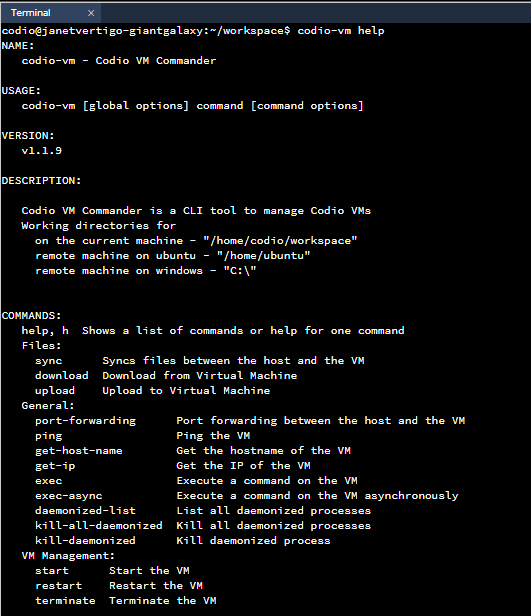
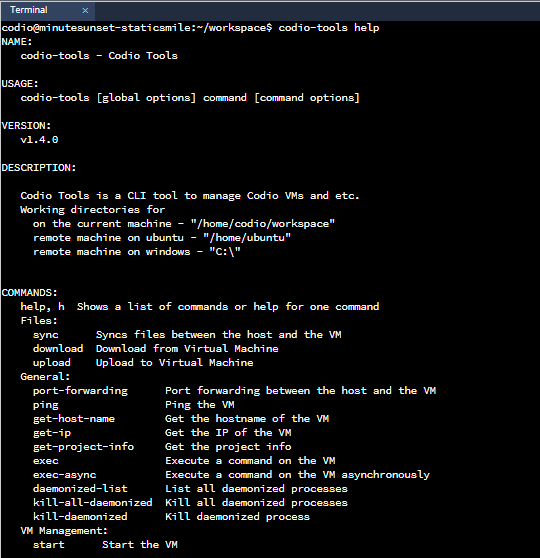
Codio tools vm (#319)

diff --git a/source/instructors/setupcourses/virtualmachine.rst b/source/instructors/setupcourses/virtualmachine.rst
@@ -107,7 +107,7 @@ or from a :ref:`Custom Guide Button<custom-buttons>`
 
 .. code:: ini
 
-   {Try it | terminal}(codio-vm help)
+   {Try it | terminal}(codio-tools help)
 
 
 The working directories for:
@@ -116,17 +116,19 @@ The working directories for:
 - Windows Virtual Machine - "C:\\"
 - Ubuntu Virtual Machine - "/home/ubuntu"
 
+.. Note::  Instead of **codio-tools** you can also use **codio-vm**, both will work the same.
+
 Following are some example of commands that can be used to interact with Virtual Machine:
 
-- **codio-vm help** - This command gives you a brief introduction about many commands that can be used to interact with Virtual Machine.
+- **codio-tools help** - This command gives you a brief introduction about many commands that can be used to interact with Virtual Machine.
 
-- **codio-vm upload** - This command is used to upload a file from Codio filetree to Virtual Machine.
+- **codio-tools upload** - This command is used to upload a file from Codio filetree to Virtual Machine.
 
    Windows example:
 
    .. code:: ini
 
-      codio-vm upload "/home/codio/workspace/local_file.sh" "C:\remote_file.sh"
+      codio-tools upload "/home/codio/workspace/local_file.sh" "C:\remote_file.sh"
 
    Running above command will upload ‘local_file.sh’ file present in your Codio filetree into the Virtual Machine as ‘remote_file.sh’.
 
@@ -134,7 +136,7 @@ Following are some example of commands that can be used to interact with Virtual
 
    .. code:: ini
 
-      codio-vm upload "/home/codio/workspace/local_file.sh" "/home/ubuntu/remote_file.sh"
+      codio-tools upload "/home/codio/workspace/local_file.sh" "/home/ubuntu/remote_file.sh"
 
 
    Similar to file, you can also upload the Folder
@@ -143,23 +145,23 @@ Following are some example of commands that can be used to interact with Virtual
 
    .. code:: ini
 
-      codio-vm upload "/home/codio/workspace/local_folder" "C:\remote_folder"
+      codio-tools upload "/home/codio/workspace/local_folder" "C:\remote_folder"
 
 
    In Ubuntu:
 
    .. code:: ini
 
-      codio-vm upload "/home/codio/workspace/local_folder" "/home/ubuntu/remote_folder"
+      codio-tools upload "/home/codio/workspace/local_folder" "/home/ubuntu/remote_folder"
 
 
-- **codio-vm download** - This command is used to download a file from Virtual Machine into your Codio filetree.
+- **codio-tools download** - This command is used to download a file from Virtual Machine into your Codio filetree.
 
    Windows example:
 
    .. code:: ini
 
-      codio-vm download "C:\remote_file.sh" "/home/codio/workspace/local_file.sh"
+      codio-tools download "C:\remote_file.sh" "/home/codio/workspace/local_file.sh"
 
 
    Running above command will download ‘remote_file.sh’ file from your Virtual Machine into your Codio filetree and saves it as ‘local_file.sh’.
@@ -168,7 +170,7 @@ Following are some example of commands that can be used to interact with Virtual
 
    .. code:: ini
 
-      codio-vm download "/home/ubuntu/remote_file.sh" "/home/codio/workspace/local_file.sh"
+      codio-tools download "/home/ubuntu/remote_file.sh" "/home/codio/workspace/local_file.sh"
 
 
    Similar to file, you can also download the Folder from your Virtual Machine
@@ -177,34 +179,34 @@ Following are some example of commands that can be used to interact with Virtual
 
    .. code:: ini
 
-      codio-vm download "C:\remote_folder" /home/codio/workspace/local_folder"
+      codio-tools download "C:\remote_folder" /home/codio/workspace/local_folder"
 
 
    In Ubuntu:
 
    .. code:: ini
 
-      codio-vm download "/home/ubuntu/remote_folder" /home/codio/workspace/local_folder"
+      codio-tools download "/home/ubuntu/remote_folder" /home/codio/workspace/local_folder"
 
-- **codio-vm start** - This command is used to start the Virtual Machine.
+- **codio-tools start** - This command is used to start the Virtual Machine.
 
-- **codio-vm restart** -  This command is used to restart the Virtual Machine.
+- **codio-tools restart** -  This command is used to restart the Virtual Machine.
 
-- **codio-vm terminate** -  This command is used to reset the Virtual Machine.
+- **codio-tools terminate** -  This command is used to reset the Virtual Machine.
 
-- **codio-vm status** - This command will return the current state of Virtual Machine. The returned value will be one of RUNNING, INACTIVE, STARTING, STOPPING.
+- **codio-tools status** - This command will return the current state of Virtual Machine. The returned value will be one of RUNNING, INACTIVE, STARTING, STOPPING.
 
-- **codio-vm get-ip** - This command will return the IP address of Virtual Machine.
+- **codio-tools get-ip** - This command will return the IP address of Virtual Machine.
  
-- **codio-vm get-host-name**  - This command will return the Host Name of Virtual Machine.
+- **codio-tools get-host-name**  - This command will return the Host Name of Virtual Machine.
 
-- **codio-vm exec/codio-vm exec-async** - This command is used to execute a command on Virtual Machine.
+- **codio-tools exec/codio-tools exec-async** - This command is used to execute a command on Virtual Machine.
 
    For example
 
    .. code:: ini
 
-      codio-vm exec mkdir -p “my_folder”
+      codio-tools exec mkdir -p “my_folder”
 
    Running above command will create “my_folder” folder in the working directories of your Virtual Machine.
 
@@ -212,22 +214,22 @@ Following are some example of commands that can be used to interact with Virtual
 
    .. code:: ini
 
-      codio-vm exec start chrome
+      codio-tools exec start chrome
 
    Can also open a particular URL in the Chrome browser
 
    .. code:: ini
 
-      codio-vm exec start chrome /incognito  https://codio.com
+      codio-tools exec start chrome /incognito  https://codio.com
 
 
-- **codio-vm sync** - This command is used to sync folder/file between Codio box and Virtual Machine.
+- **codio-tools sync** - This command is used to sync folder/file between Codio box and Virtual Machine.
 
    Windows example:
 
    .. code:: ini
 
-      codio-vm sync "/home/codio/workspace/folder" "C:\Users\Administrator\Desktop\folder"
+      codio-tools sync "/home/codio/workspace/folder" "C:\Users\Administrator\Desktop\folder"
 
 
    Running above command will sync both, 'folder' in Codio box and 'folder' in Windows VM. The latest changes made to one of 'folder' will automatically synced to the other 'folder'. If the mentioned file/folder does not exist in the Virtual Machine, it will be copied from Codio box to the Virtual Machine at the mentioned path.
@@ -236,33 +238,33 @@ Following are some example of commands that can be used to interact with Virtual
 
    .. code:: ini
 
-      codio-vm sync "/home/codio/workspace/folder" "/home/ubuntu/folder"
+      codio-tools sync "/home/codio/workspace/folder" "/home/ubuntu/folder"
 
 
-- **codio-vm port forwarding** - This command is used to enable access to services running on the Virtual Machine from Codio box.
+- **codio-tools port forwarding** - This command is used to enable access to services running on the Virtual Machine from Codio box.
 
    .. code:: ini
 
-       codio-vm port-forwarding 3355 3344
+       codio-tools port-forwarding 3355 3344
 
    Running above command will enable access to service running on port 3344 in Virtual Machine from port 3355 in Codio box. You can use either Box URL with port 3355 or call 'curl localhost:3355' from terminal in Codio box. The port values mentioned here are just an example, you can use different port values. 
 
 
-- **codio-vm daemonized-list** - This command will list all the daemonized processes.
+- **codio-tools daemonized-list** - This command will list all the daemonized processes.
 
-- **codio-vm kill-all-daemonized** - This command will kill all the daemonized processes.
+- **codio-tools kill-all-daemonized** - This command will kill all the daemonized processes.
 
-- **codio-vm kill-daemonized** - This command will kill the specific daemonized process.
+- **codio-tools kill-daemonized** - This command will kill the specific daemonized process.
 
    .. code:: ini
 
-      codio-vm kill-daemonized 353
+      codio-tools kill-daemonized 353
 
-   Running above command will kill the daemonized process whose PID is 353. You can see PID of all daemonized processes using `codio-vm daemonized-list`.
+   Running above command will kill the daemonized process whose PID is 353. You can see PID of all daemonized processes using `codio-tools daemonized-list`.
 
-- **codio-vm get-project-info** - This command will provide the below course/project/user information in Table or JSON format (Table is default).
+- **codio-tools get-project-info** - This command will provide the below course/project/user information in Table or JSON format (Table is default).
 
-    - codio-vm get-project-info ``--`` format json:
+    - codio-tools get-project-info ``--`` format json:
 
         .. code:: ini
 
@@ -275,7 +277,7 @@ Following are some example of commands that can be used to interact with Virtual
                 },
                 "course": {
                     "id": "ba9c37a68782692435a47f8087e1b4d0",
-                    "name": "codio-vm get-project-info course",
+                    "name": "codio-tools get-project-info course",
                     "lti": false,
                     "assignment": {
                     "id": "21fffe6e3932801221b7d5ef03fa646c",
@@ -295,7 +297,7 @@ Following are some example of commands that can be used to interact with Virtual
                 }
             }
 
-    - codio-vm get-project-info ``--`` format table:
+    - codio-tools get-project-info ``--`` format table:
 
         .. code:: ini
 
@@ -309,7 +311,7 @@ Following are some example of commands that can be used to interact with Virtual
                 | user.fullName           | stud 100                             |
                 | user.email              | yescodio+stud100@gmail.com           |
                 | course.id               | ba9c37a68782692435a47f8087e1b4d0     |
-                | course.name             | codio-vm get-project-info course     |
+                | course.name             | codio-tools get-project-info course     |
                 | course.lti              | false                                |
                 | course.assignment.id    | 21fffe6e3932801221b7d5ef03fa646c     |
                 | course.assignment.name  | example assignment                   |

diff --git a/source/instructors/admin/organization/webhook.rst b/source/instructors/admin/organization/webhook.rst
@@ -7,19 +7,19 @@ Webhooks
 ========
 Webbhooks allow receiving Codio events by calling your endpoint. 
 
-The system won't retry webhook calls and for any missed events you can query the API event object using loadEvents function.
+The system won’t retry webhook calls for any missed events you can query the API event object using loadEvents function.
 
 You can add your own Webhooks to your Codio organization from the **Organization > Integrations** page in Codio.
 
 Go to the **Webhooks** area and **Add Webhook**
 
-To add a webhook go to enter the URL of your server and press create, the system will send a test request to check endpoint validity.
+To add a webhook enter the URL of your server and press create, the system will send a test request to check endpoint validity.
 
    .. image:: /img/createwebhook.png
       :alt: My Organizations
 
-All requests contain JWT signature you can verify using codio keys https://apollo.codio.com/lti/oidc/certs (or https://apollo.codio.co.uk/lti/oidc/certs if working on codio.co.uk)
+All requests contain a JWT signature you can verify using codio keys https://apollo.codio.com/lti/oidc/certs (or https://apollo.codio.co.uk/lti/oidc/certs if working on codio.co.uk)
 
 
-Example app to receive webhooks how into a codio project can be found here: https://github.com/iyashtykov/webhook-server
+Example app to receive webhooks into a Codio project can be found here: https://github.com/iyashtykov/webhook-server
 

diff --git a/student-source/students/accessing-codio/paying.rst b/student-source/students/accessing-codio/paying.rst
@@ -103,3 +103,17 @@ Restarting an expired payment or extending an existing payment
 --------------------------------------------------------------
 
 If you had a payment that has now expired, or wish to extend the period of time available, start a new payment as above.
+
+.. _refund:
+
+Refund Policy
+-------------
+
+You can ask for a refund if you drop your course:
+
+- If requested within 14 days of starting the payment plan, a full refund can be given.
+- If requested after 14 days it will be a pro-rata refund.  80% if within the first month, 60% if within the second month etc.
+
+Do **NOT** raise with your card issuing company as a fraudulent transaction as we will always challenge this and additional charges may be incurred by you.
+
+To ask for a refund, contact us from your account (see https://docs.codio.com/instructors/getstarted/support/support.html#support-dialog) so we will know what Codio account you are seeking a refund on (even if your payment receipt was to a different email address) and it will be dealt with as soon as possible.

diff --git a/source/instructors/authoring/guides/toc.rst b/source/instructors/authoring/guides/toc.rst
@@ -46,7 +46,7 @@ You can add a new chapter, section or page by
 
 Deleting pages, chapters and sections
 *************************************
-When in edit mode and viewing the table of contents you can select the item you wish to delete and use the trash can icon that appears on the right. Alternatively, you can ctrl-click (Mac) or right-click (PC) on a page or chapter or section and select delete from the menu of options that appears.
+When in edit mode and viewing the table of contents you can select the item or hover over the item you wish to delete and use the trash can icon that appears on the right. Alternatively, you can ctrl-click (Mac) or right-click (PC) on a page or chapter or section and select delete from the menu of options that appears.
 
 Adding content to a chapter or section
 **************************************

diff --git a/source/instructors/authoring/assessments/auto-grade-scripts.rst b/source/instructors/authoring/assessments/auto-grade-scripts.rst
@@ -324,6 +324,8 @@ This section provides example assignment level scripts using the older methods t
       POINTS=$(( ( RANDOM % 100 )  + 1 ))
       # Show json based passed environment
       echo $CODIO_AUTOGRADE_ENV
+      # Show json based project information
+      echo $(codio-vm get-project-info --format json)
       # Send the grade back to Codio
       curl --retry 3 -s "$CODIO_AUTOGRADE_URL&grade=$POINTS"
 

diff --git a/source/common/develop/ide/editing/code-editing.rst b/source/common/develop/ide/editing/code-editing.rst
@@ -24,7 +24,6 @@ Code Editing Features
    force-language-highlighting
    preview
    quick-open
-   real-time-collaboration
    save-files
    search-replace
    share-project

diff --git a/source/instructors/authoring/assessments/add-assessment.rst b/source/instructors/authoring/assessments/add-assessment.rst
@@ -31,7 +31,6 @@ Auto-graded assessments
    random
    math-assessments
    ungraded-assessments
-   sense-network
    
    
    
